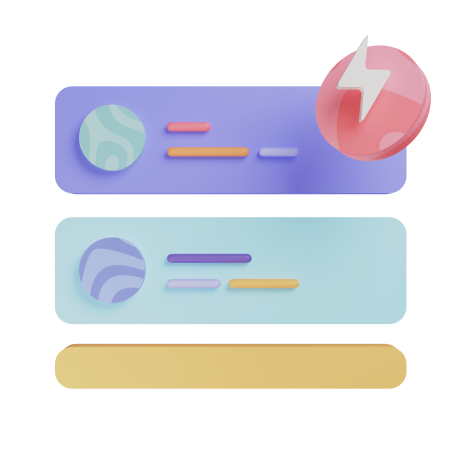
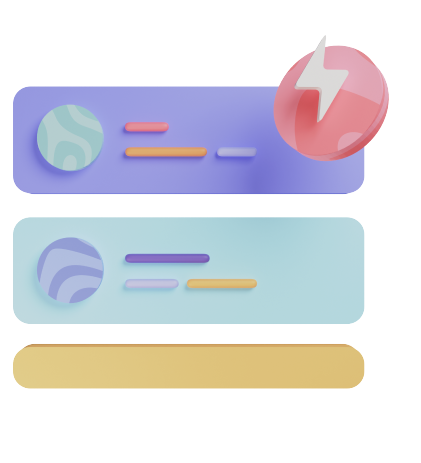
additional changes to the about section, adjusted task.png cropping so that it does not overlap with the hero content text

diff --git a/docs/style.css b/docs/style.css
@@ -52,6 +52,7 @@ h3 {
 
 p {
     font-size: var(--base-fonts);
+    line-height: 1.618rem;
 }
 
 a {
@@ -102,7 +103,7 @@ header {
 .hero {
     display: flex;
     justify-content: space-between;
-    background: var(--background-color) url(../images/computer.png) no-repeat;
+    background: url(./images/computer.png) no-repeat right;
     height: 473px;
     font: 2rem / 1.6 var(--font-secondary);
 }
@@ -110,8 +111,9 @@ header {
 
 .hero h1 {
     margin-top: 5rem;
-    width: 35rem;
+    width: 30rem;
     font-weight: 700;
+    line-height: 100%;
 }
 
 .hero p {
@@ -169,23 +171,25 @@ footer {
 }
 
 .hero-section.task {
-    background-image: url(../images/task.png);
+    background-image: url(./images/task.png);
     background-position: left;
     justify-content: flex-end;
-    text-align: right;
+    text-align: left;
     height: 496px;
+    padding-left: 0;
+    padding-right: 0;
+    background-image: url(./images/clip.png) no-repeat left;
 }
 
 .hero-section.clip {
-    background-image: url(../images/clip.png);
-    background-position: right;
-    justify-content: flex-start;
-    text-align: left;
+    
     height: 410px;
 }
 
 .hero-content {
-    width: 50rem;
+    justify-content: flex-end;
+    text-align: left;
+    width: 30rem;
 }
 
 .ready {
